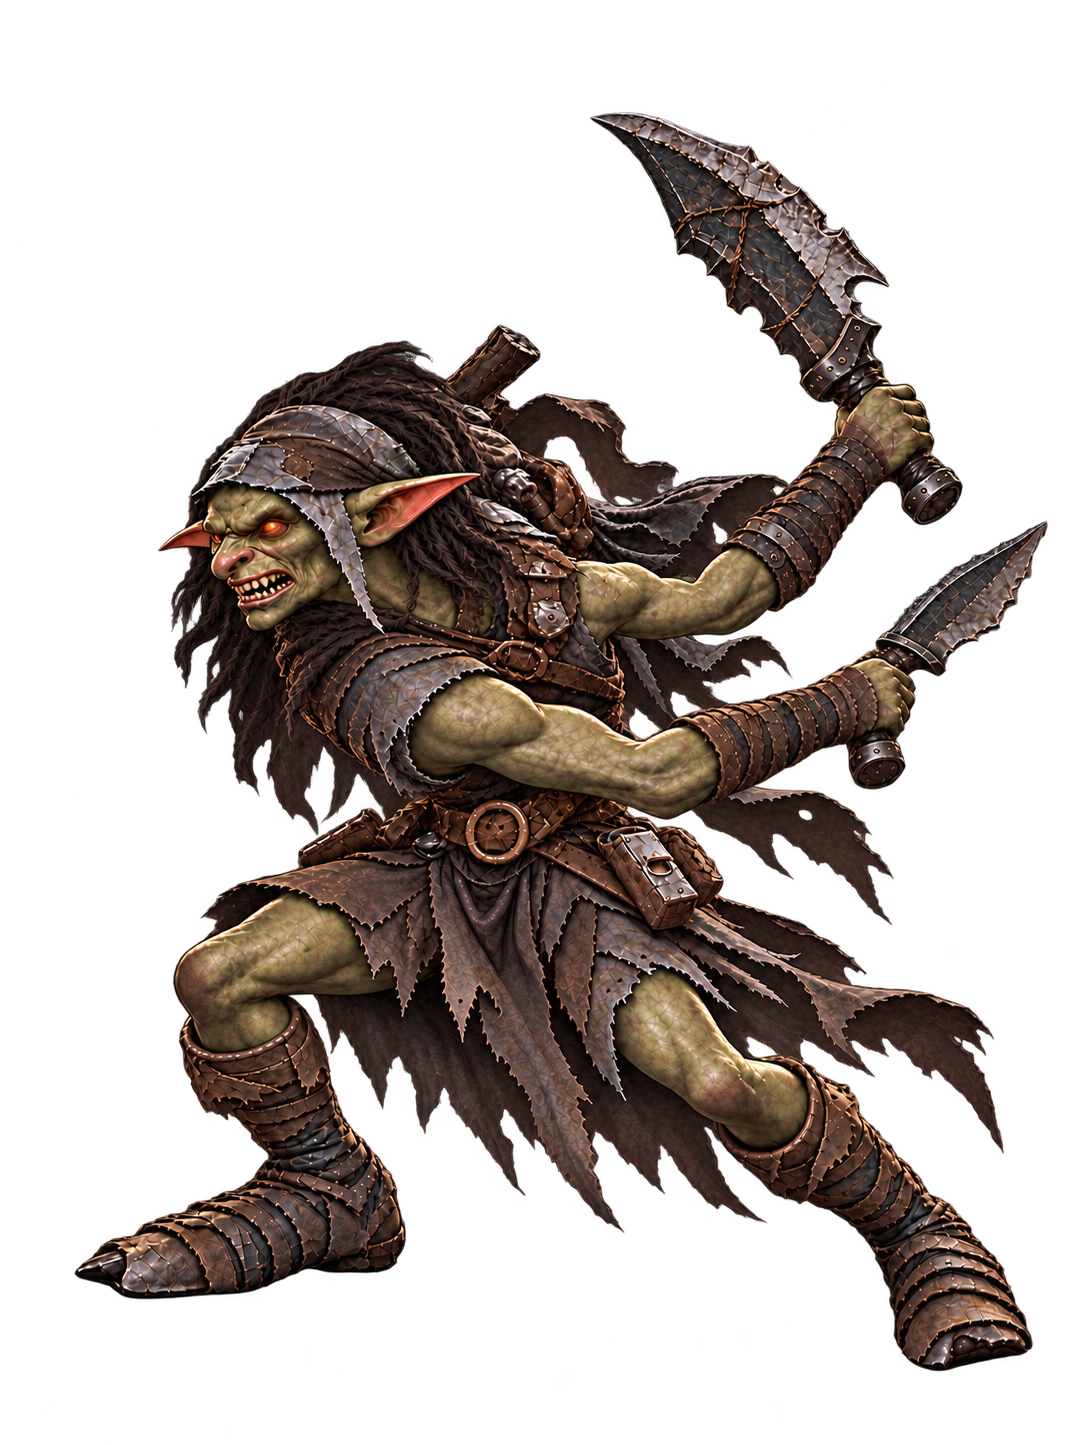
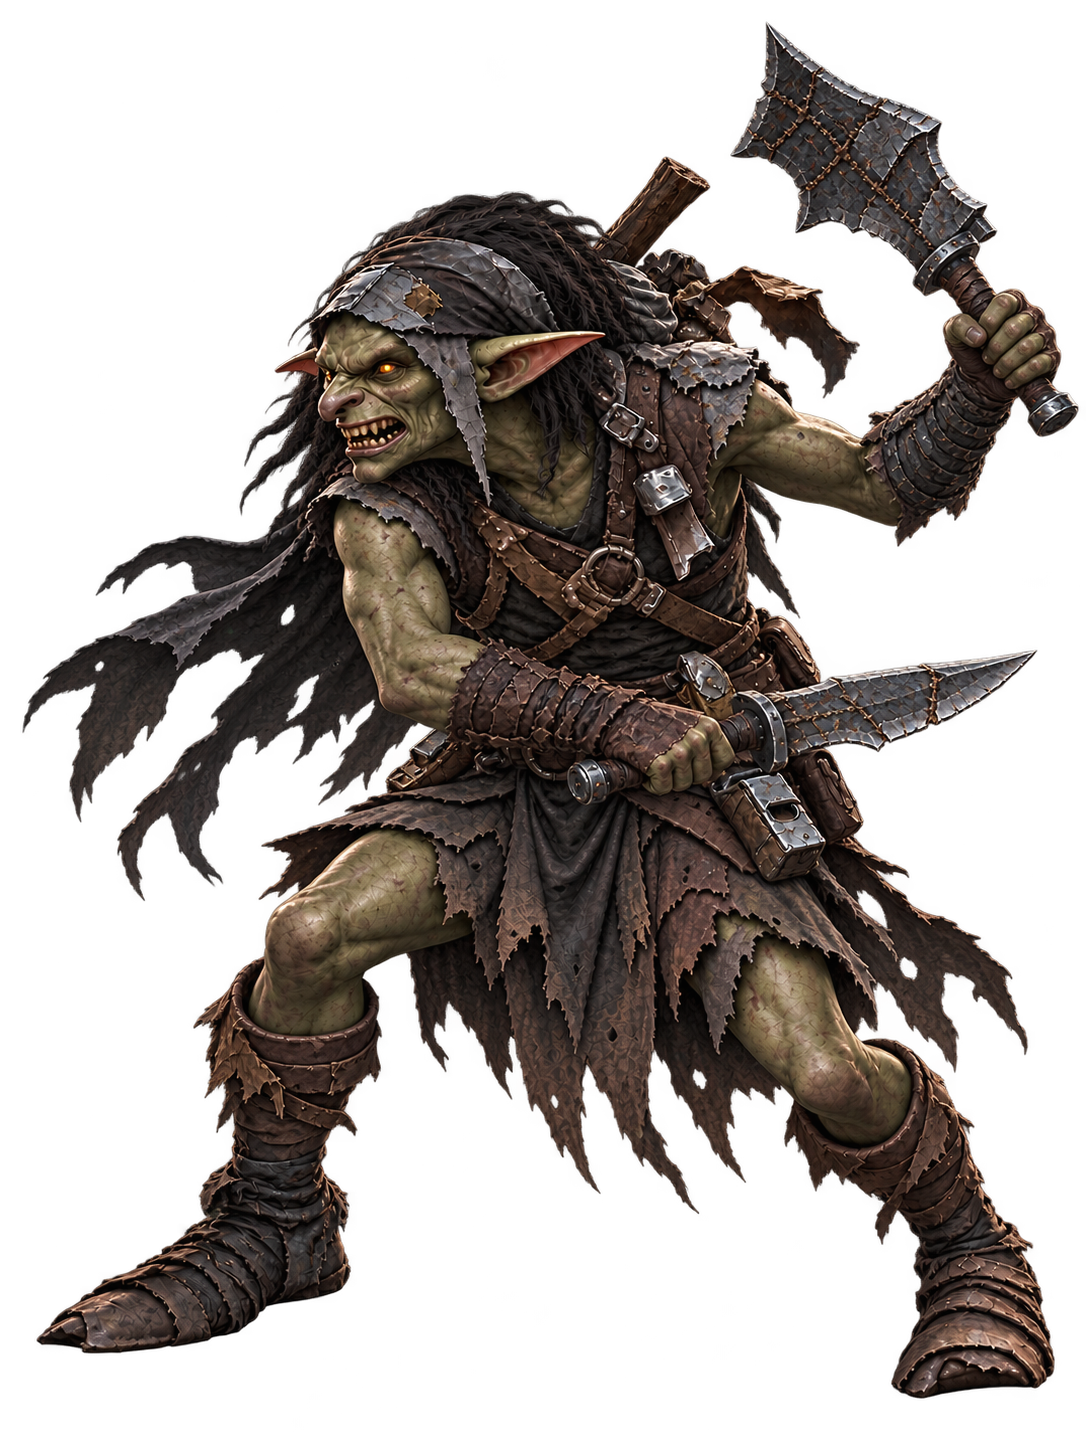
art: rebuild goblin and king pose anatomy

diff --git a/docs/art-review/REVIEW_PR16_2026_10_30_RU.md b/docs/art-review/REVIEW_PR16_2026_10_30_RU.md
@@ -8,10 +8,10 @@
 | Волк `windup` | Выраженно низкий присед на задние лапы перед прыжком | Исправлено, кандидат на просмотр |
 | Волк, все позы | Почти чёрная шерсть по канону и удаление подложки | Пять поз перекрашены; на контрастной подложке серая плашка не видна |
 | Гоблин, все позы | Приглушённая зелёно-бурая гамма вместо оранжевой | Исправлены все пять поз, кандидаты на просмотр |
-| Гоблин `windup` | Оба раздельных клинка заведены назад | Оба клинка подняты и отведены вправо за корпус, оружие целиком |
+| Гоблин `windup` | Оба раздельных клинка заведены назад | После замечания об анатомии перегенерирован; новый кандидат описан в [последующей правке](USER_REVIEW_2026_10_30_RU.md) |
 | Страж `prepare` | Щит закреплён за спиной, обе кисти держат меч | Исправлено, кандидат на просмотр |
 | Страж `hit` | Череп сильнее откинут, взгляд остаётся влево | Исправлено, кандидат на просмотр |
-| Король I `prepare` | Тусклое красное тление короны | Исправлено, кандидат на просмотр |
+| Король I `prepare` | Тусклое красное тление короны | После замечания о кистях и рукояти перегенерирован; новый кандидат описан в [последующей правке](USER_REVIEW_2026_10_30_RU.md) |
 | Король I `hit` | Выразимый откат корпуса, устойчивая опора | Исправлено, кандидат на просмотр |
 | Чародей `idle` | Огонь на ладони у груди | Исправлено, кандидат на просмотр |
 

diff --git a/docs/art-review/USER_REVIEW_2026_10_30_RU.md b/docs/art-review/USER_REVIEW_2026_10_30_RU.md
@@ -1,0 +1,6 @@
+# Правки по замечаниям пользователя — 30.10.2026
+
+- **Гоблин, замах:** предыдущий вариант имел неестественные плечевой пояс и руки. Поза перегенерирована с двумя раздельными плечами, согнутыми локтями и двумя клинками, отведёнными назад. [Новый вариант](../../art-sources/poses/goblinRaider/proposals/windup.png), [лист поз](goblinRaider-poses-v2/pose-sheet.png).
+- **Костяной король, фаза I, подготовка умения:** предыдущие кисти и рукоять имели дефекты. Поза перегенерирована; предплечья ведут к отдельным кистям, обе кисти расположены на короткой рукояти поднятого меча. [Новый вариант](../../art-sources/poses/boneKing/proposals/prepare.png), [лист поз](boneKing-poses-v2/pose-sheet.png).
+
+Это кандидаты на художественный просмотр, приёмка пользователем ещё не зафиксирована. Предыдущие изображения доступны в истории Git на коммите `3ba207d`. [Запросы и ссылки на референсы](USER_REVIEW_2026_10_30_PROMPTS.json). Техническая интеграция и проверки остаются отложенными до общего завершающего этапа.

diff --git a/docs/ART_PROGRESS_RU.md b/docs/ART_PROGRESS_RU.md
@@ -13,7 +13,10 @@
 5. Катакомбы и тронный склеп: художественные мастера и четыре слоя каждой арены.
 6. P1: портреты по необходимости и по ТЗ, шесть событий, иконки модулей, узлов и ресурсов.
 7. P2: цитадель, пять постов, групповой арт при изменении обликов, промо и VFX по ТЗ.
+
 8. Общая художественная доводка и затем единый технический этап.
+
+По последующим замечаниям пользователя перегенерированы замах гоблина и подготовка умения короля I; оба варианта ожидают художественного просмотра. [Правки и ссылки на изображения](art-review/USER_REVIEW_2026_10_30_RU.md).
 
 Исходники и запросы сохраняются по персонажам. Внутренняя художественная приёмка от 29.10.2026 отделена от утверждения пользователем. Проверки игрового рендерера на каждом новом персонаже не запускаются.
 

diff --git a/docs/art-review/boneKing-poses-v2/README.md b/docs/art-review/boneKing-poses-v2/README.md
@@ -18,3 +18,5 @@
 ## Рецензия PR №16 — 30.10.2026
 
 [Обработанные замечания и оставшийся пункт](../REVIEW_PR16_2026_10_30_RU.md). Лист выше обновлён по текущим кандидатам.
+
+По замечанию пользователя от 30.10 подготовка умения перегенерирована из-за кистей, предплечий и рукояти; [описание правки](../USER_REVIEW_2026_10_30_RU.md).

diff --git a/docs/art-review/goblinRaider-poses-v2/README.md b/docs/art-review/goblinRaider-poses-v2/README.md
@@ -17,3 +17,5 @@
 ## Рецензия PR №16 — 30.10.2026
 
 [Обработанные замечания и оставшийся пункт](../REVIEW_PR16_2026_10_30_RU.md). Лист выше обновлён по текущим кандидатам.
+
+По замечанию пользователя от 30.10 замах перегенерирован из-за строения корпуса и рук; [описание правки](../USER_REVIEW_2026_10_30_RU.md).
